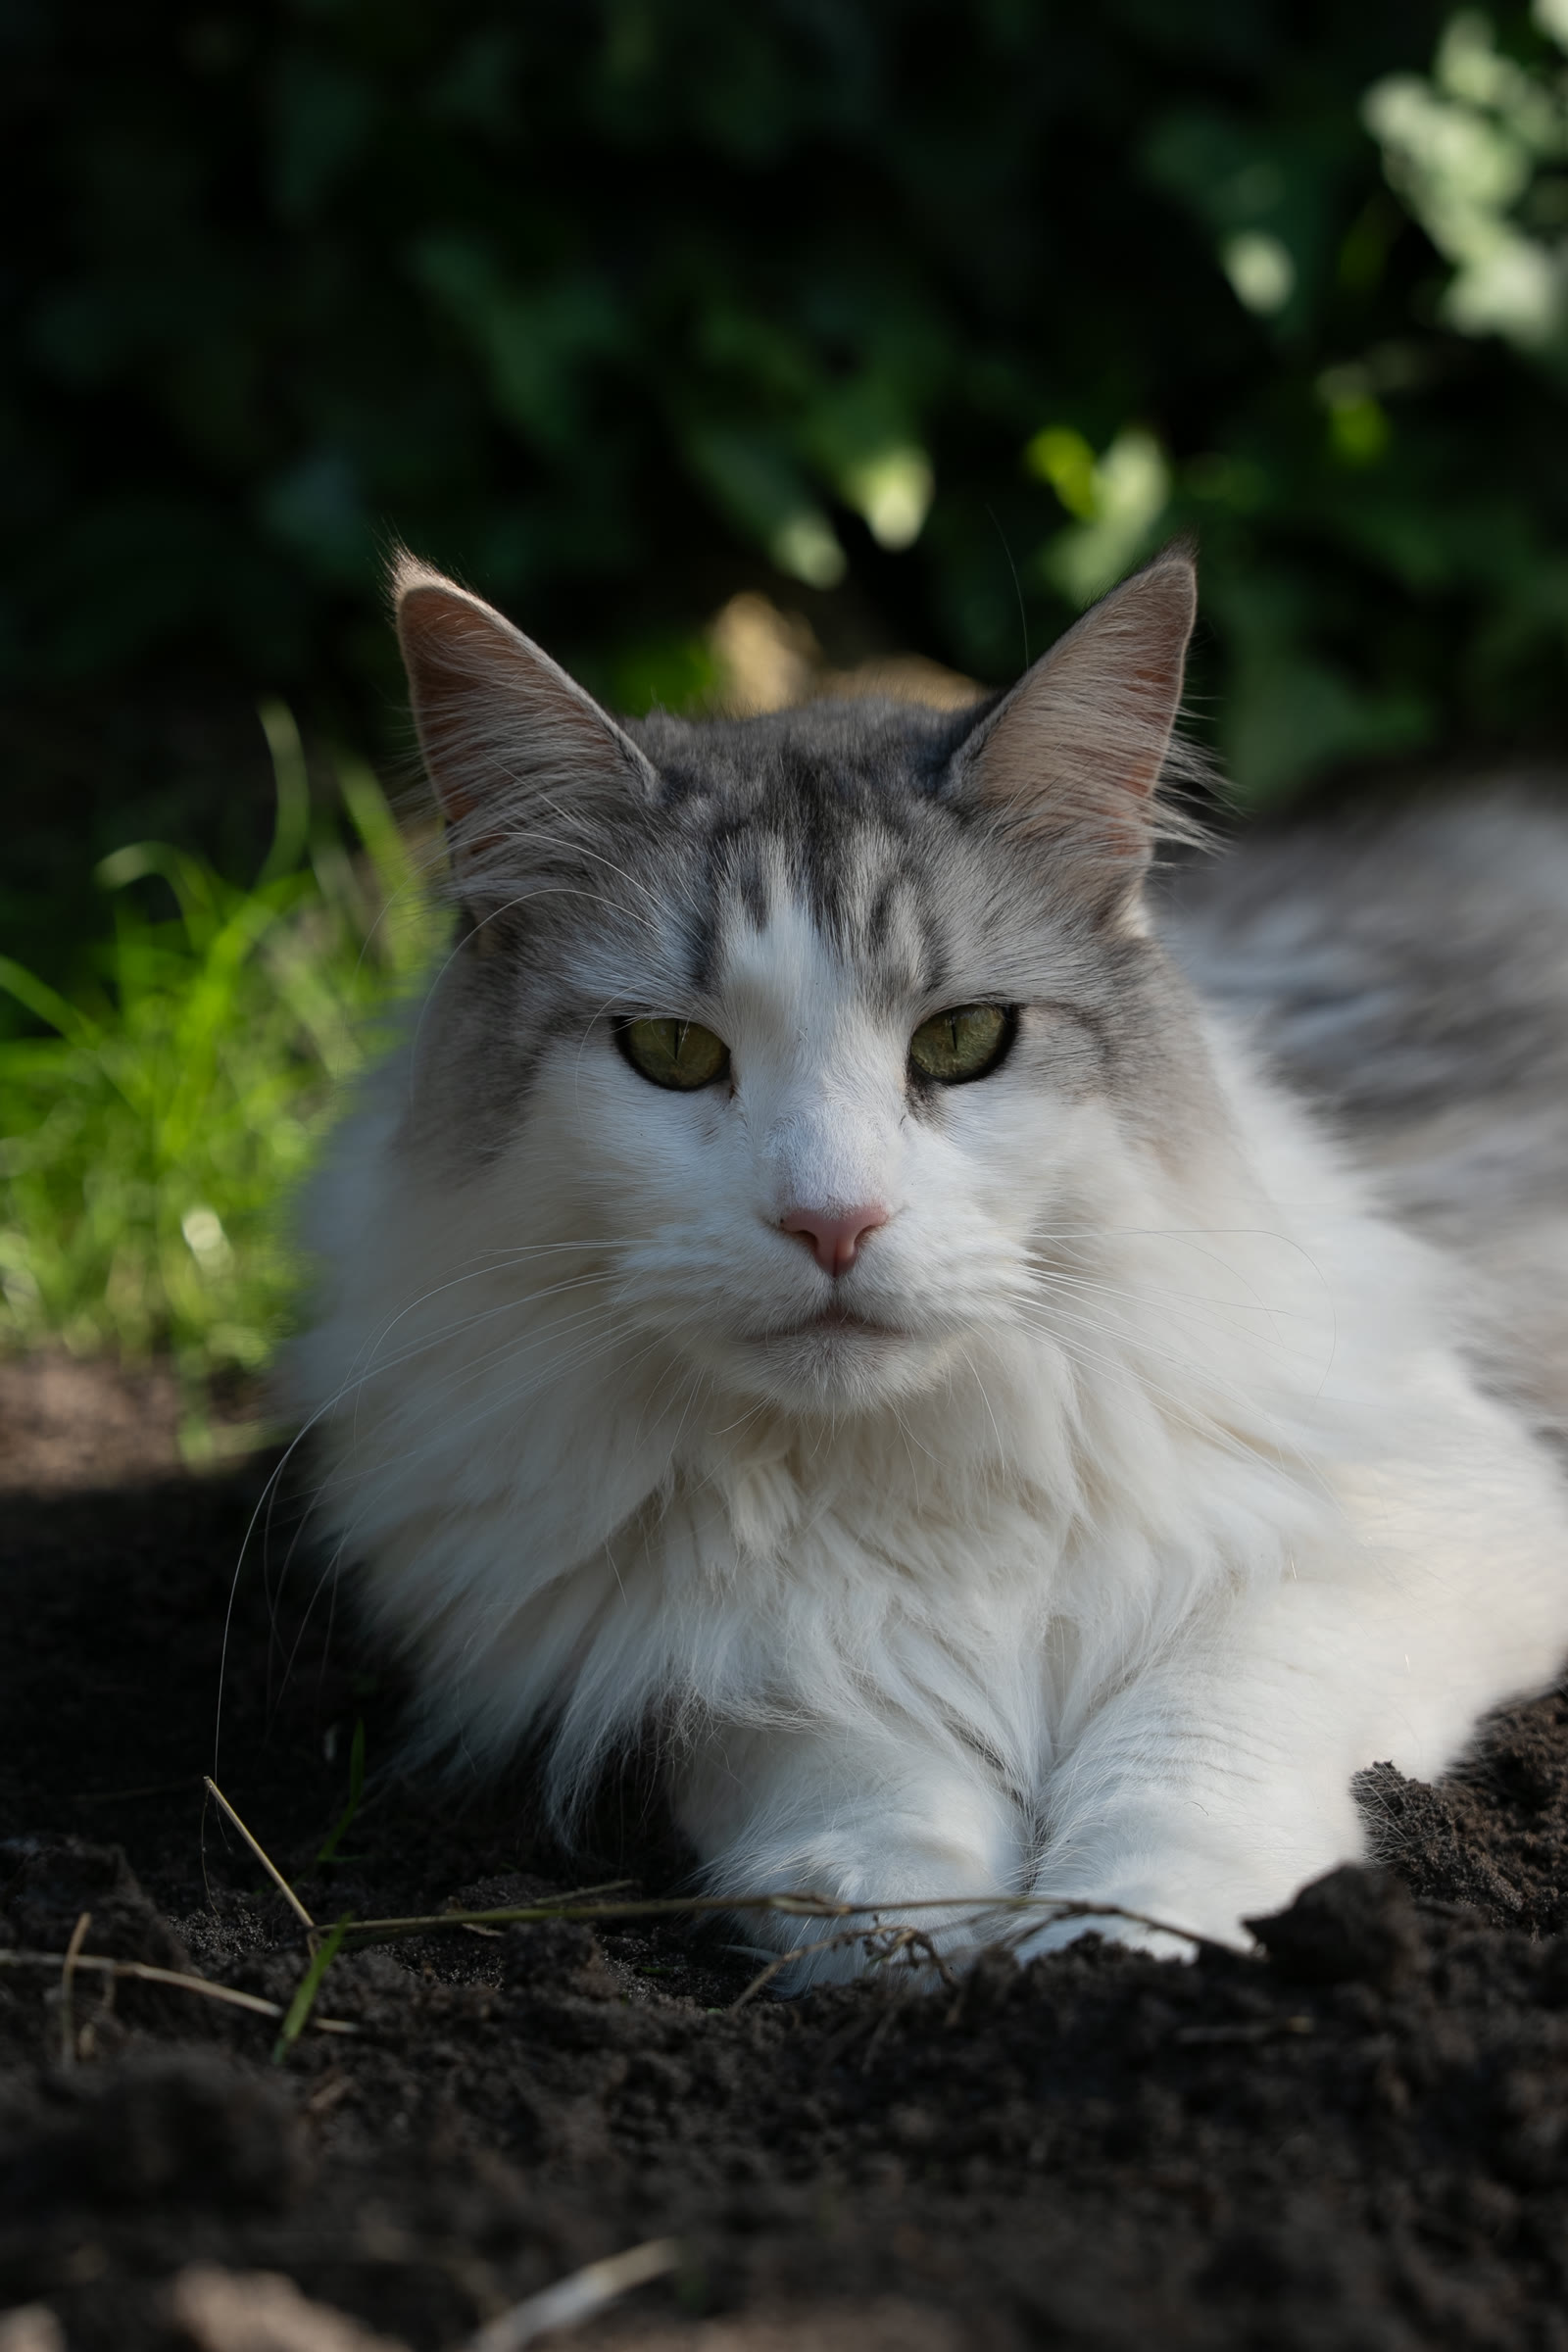
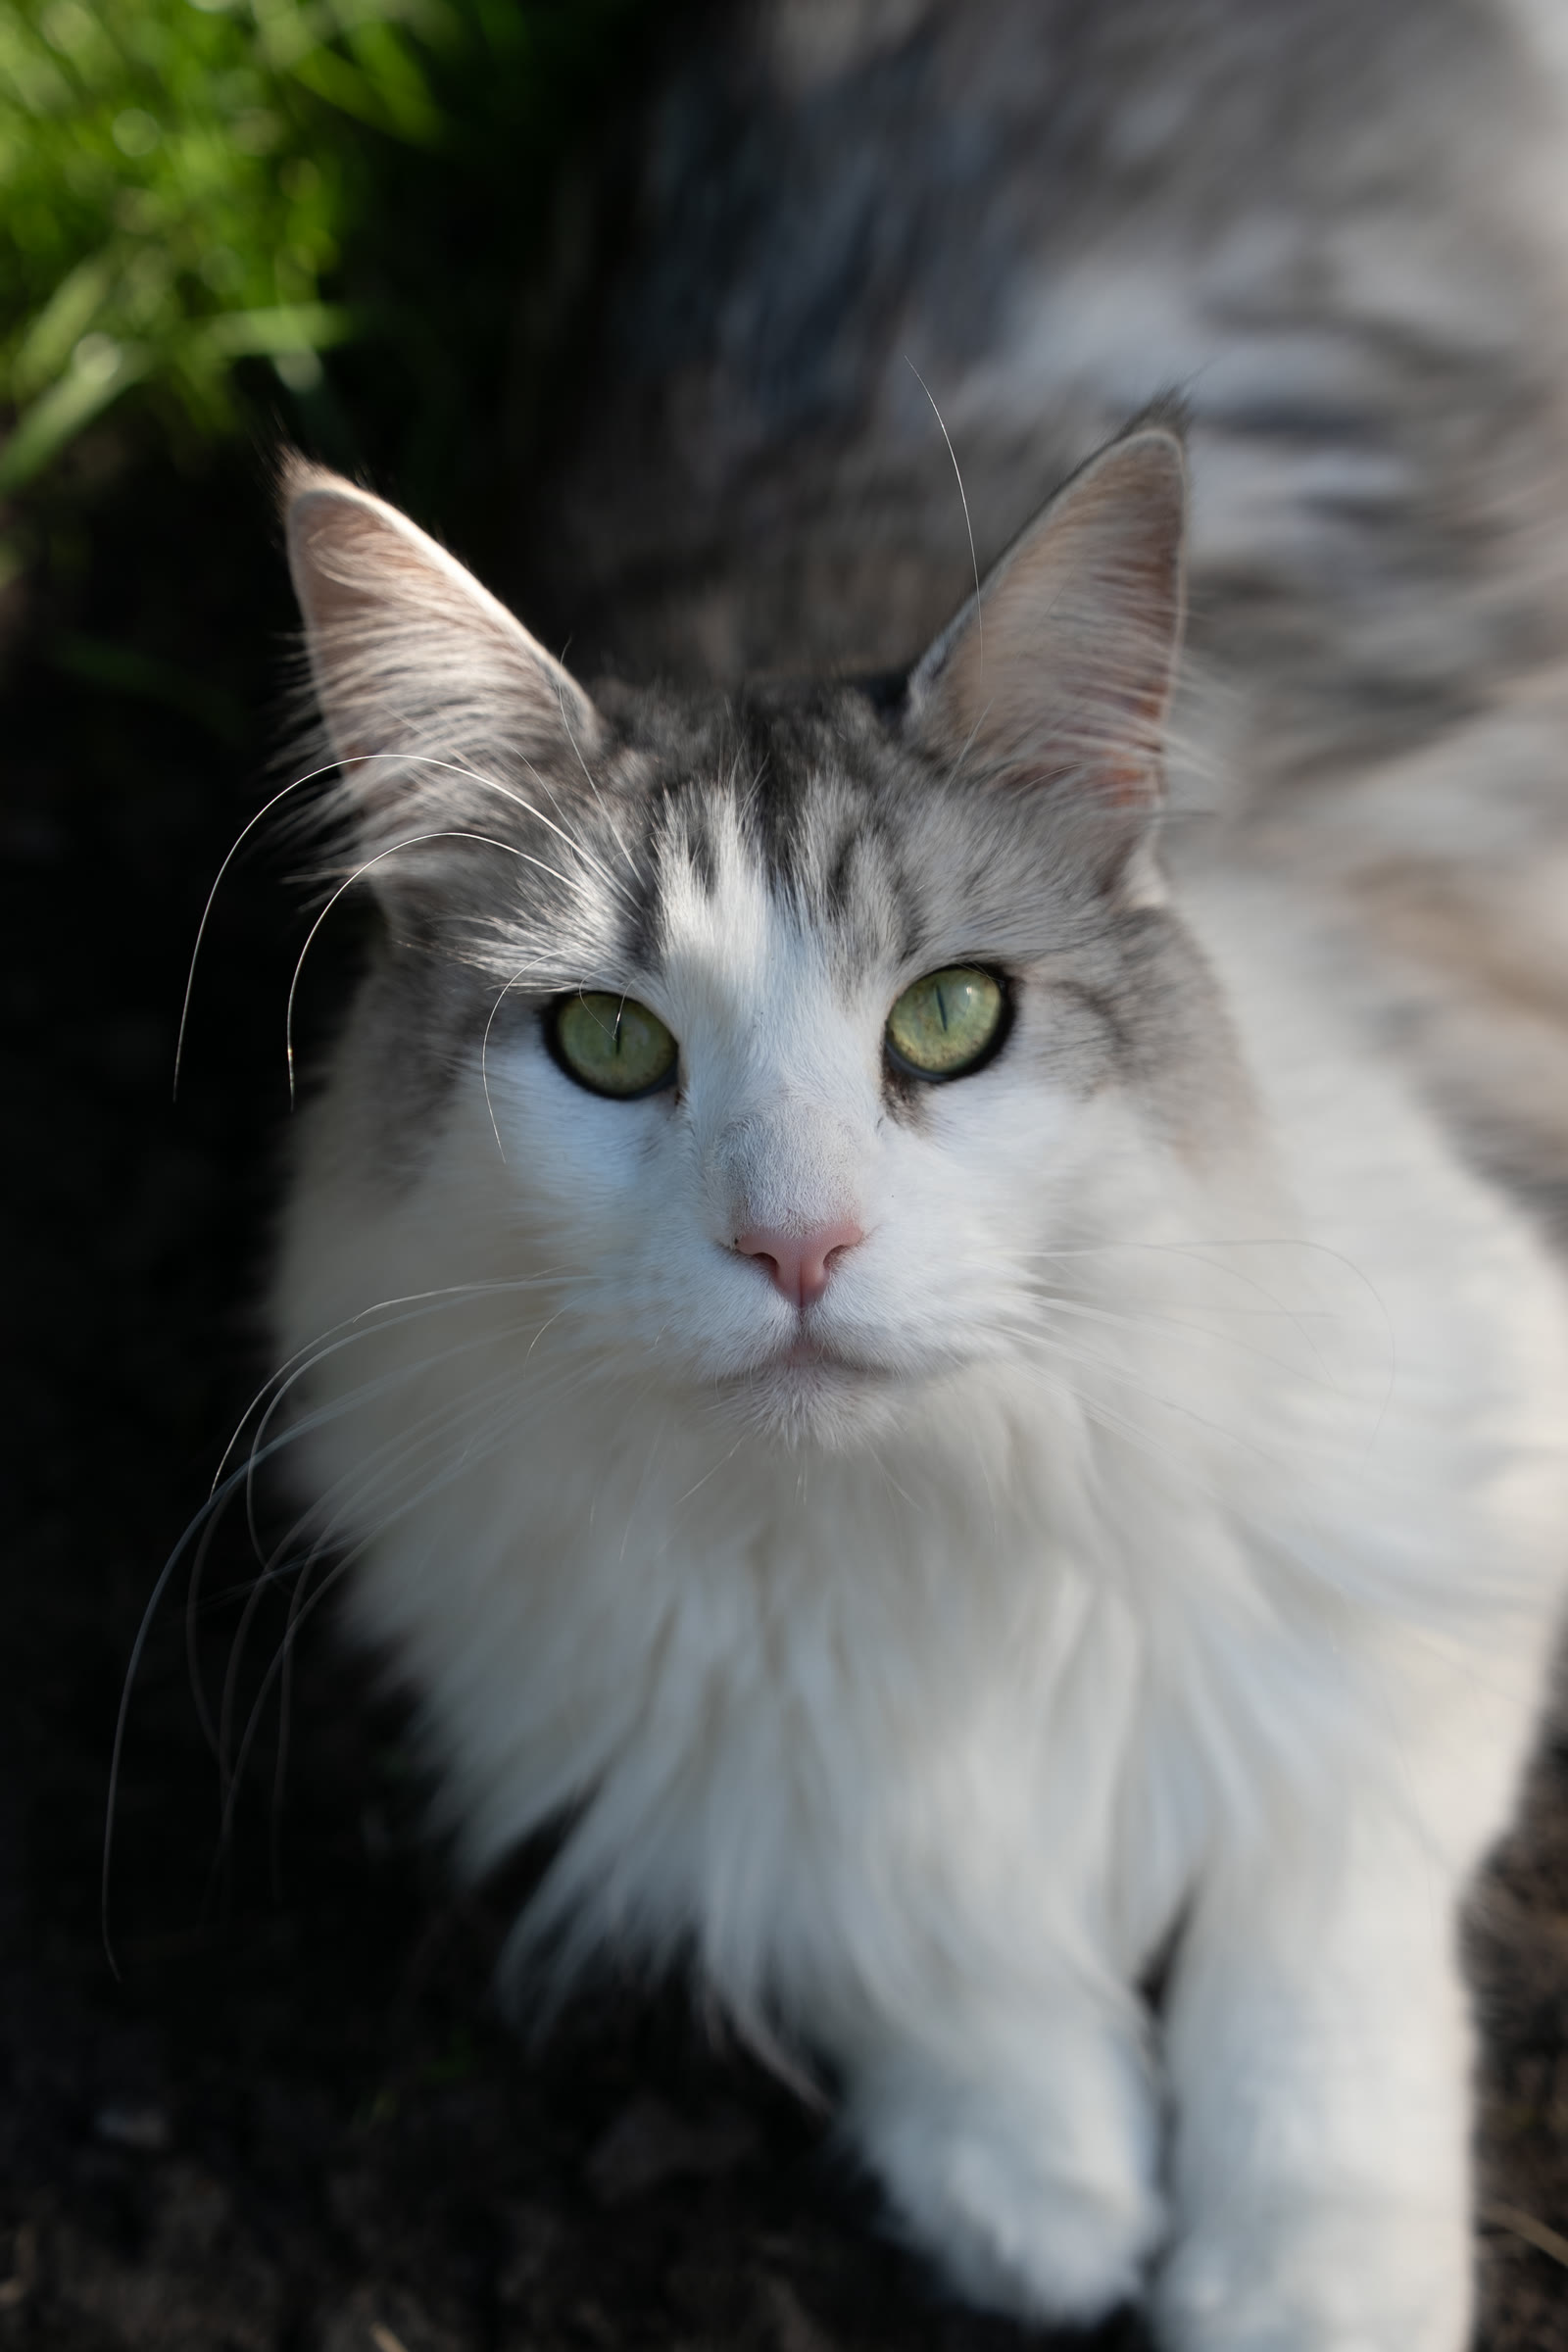
Corrige 2 paires avant/après : chien-automne (vrai après du raw) et mainecoon-regard (vrai raw fourni)

diff --git a/script.js b/script.js
@@ -192,7 +192,7 @@
       { f: 'chat-jungle',       n: 'Petit tigre urbain' },
       { f: 'mainecoon-affut',   n: 'L’approche' },
       { f: 'chien-regard-ciel', n: 'Les yeux au ciel' },
-      { f: 'chien-face',        n: 'Regard complice', apres: 'photos/avant/chien-face-apres.jpg' },
+      { f: 'chien-automne',     n: 'Couleurs d’automne' },
       { f: 'mainecoon-jardin',  n: 'Cache-cache au jardin' },
       { f: 'eglise',            n: 'Clocher au couchant' },
       { f: 'oiseau-fil',        n: 'Le funambule' },